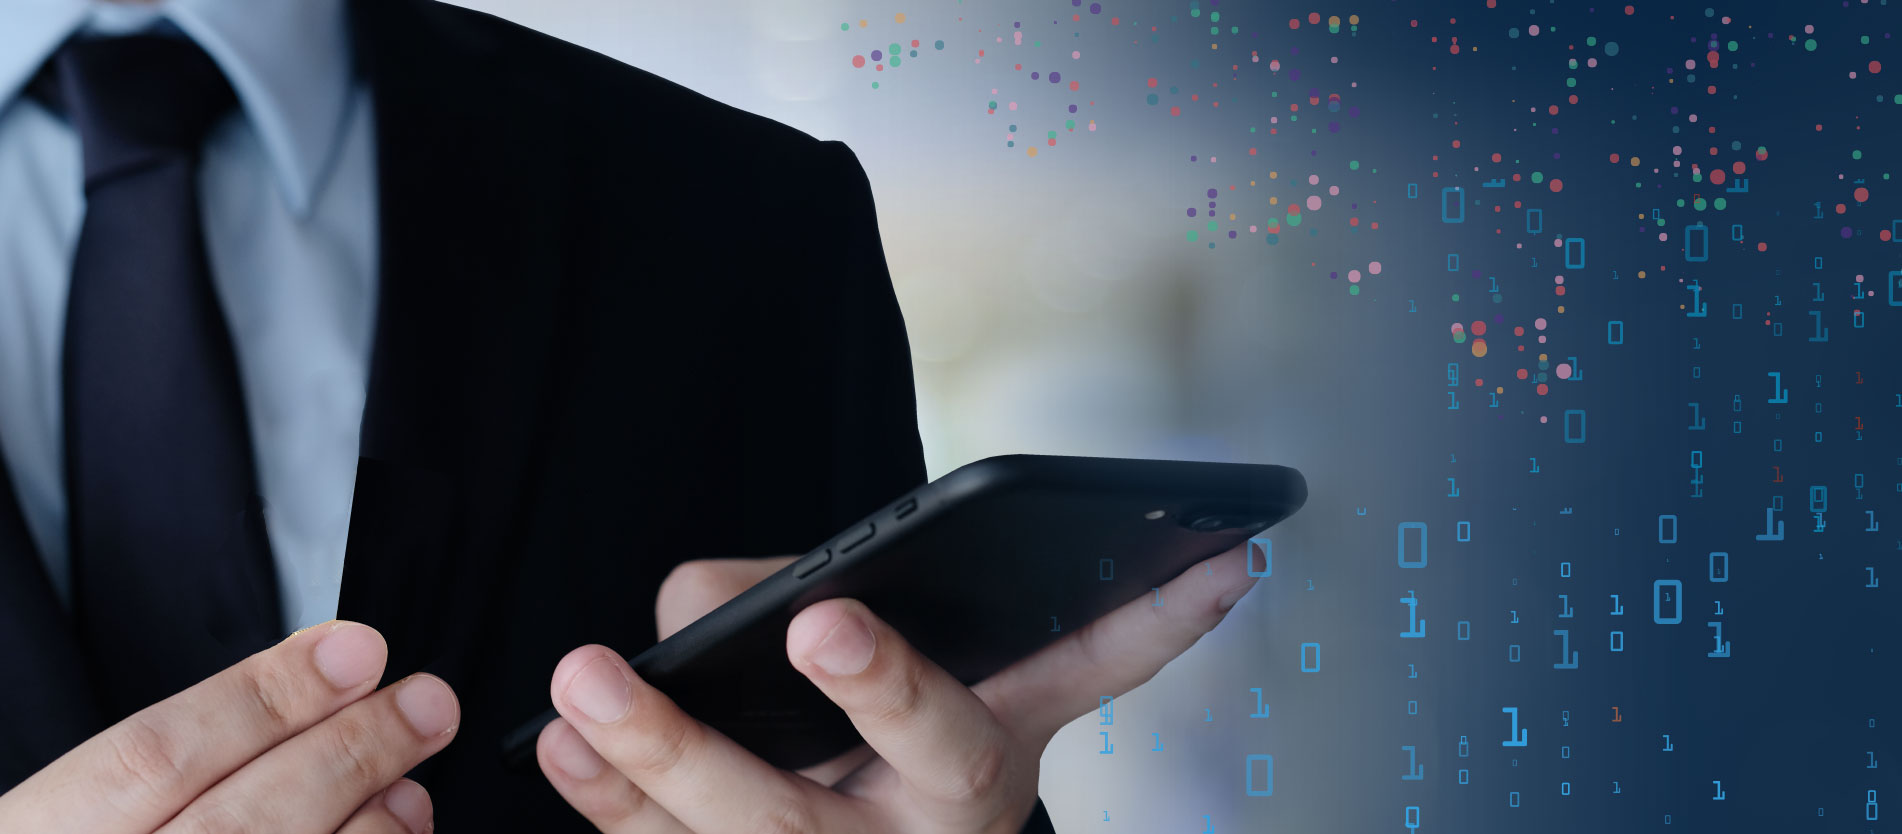
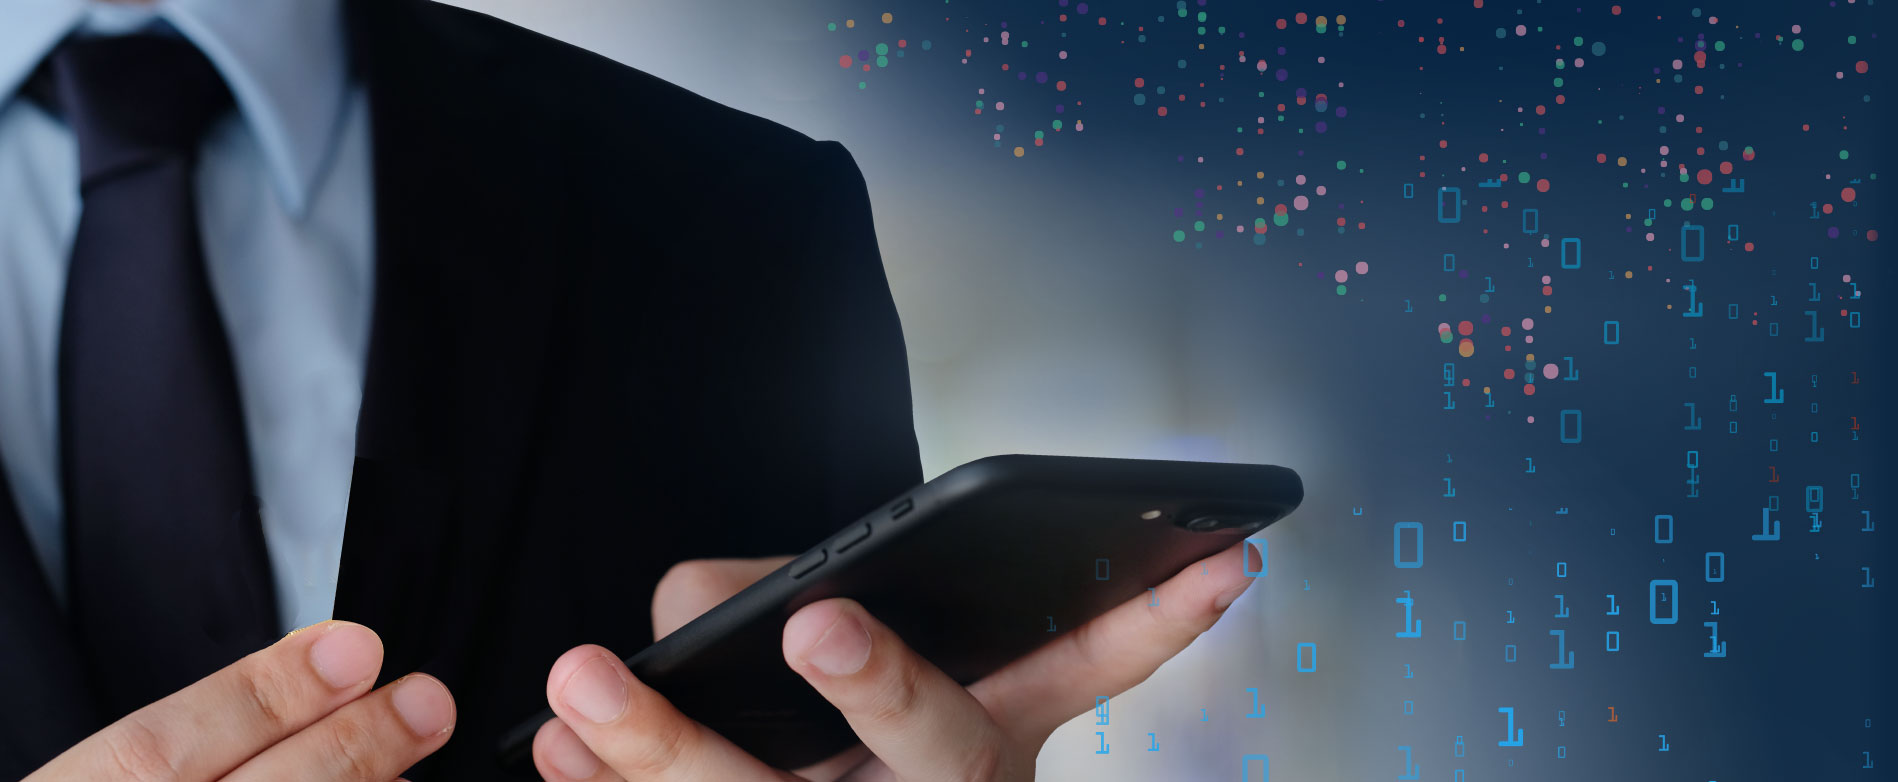
2차수정

diff --git a/TEEware/css/main.css b/TEEware/css/main.css
@@ -1,102 +1,113 @@
 
 
 /* 해더 */
-#header {position:fixed; top:0; left:0; right:0; background:#29293a; z-index:10;}
-#header .inner {width:1240px; margin:0 auto; position: relative; height:100px;}
-#header .logo { position:absolute; top:50%; left:0; transform: translateY(-50%);}
-#header .logo a {background:url('../images/logo.png') 0 0 no-repeat; display:block; width:172px; height:54px;}
+#header {position:fixed; top:0; left:0; right:0; background:transparent; z-index:10; transition:all .5s;}
+#header.active {background:#29293a;}
+#header .inner {position:relative; width:1613px; height:77px; margin:0 auto;}
+#header .logo {position:absolute; top:50%; left:0; transform:translateY(-50%);}
+#header .logo a {display:block; background:url("../images/logo.png") 0 0 no-repeat; width:130px; height:40px; font:0/0 a;}
 
-#header .gnb {position: absolute; top:50%; right:160px; transform: translateY(-50%);}
+#header .gnb {position:absolute; top:50%; right:160px; transform:translateY(-50%);}
 #header .gnb li {float:left; margin-left:56px;}
-#header .gnb li a { font-family:'Roboto', sans-serif; color:#fff; font-size:23px;}
-
-#header .lang {position: absolute; top:50%; right:10px; transform: translateY(-50%);}
-#header .lang a{font-size:20px; color:#94949d; margin-left:20px;}
+#header .gnb li a {color:#fff; font-family:"Roboto", sans-serif; font-size:20px;}
+#header .gnb li:hover {border-bottom:solid 1px #ffffff;}
+#header .lang {position:absolute; top:50%; right:10px; transform:translateY(-50%);}
+#header .lang a {margin-left:20px; color:#94949d; font-size:18px;}
 #header .lang a.active {color:#fff;}
 
 #wrap {min-width:1340px;}
 
-.mainvisual {
-    background:url('../images/main_visual.jpg') 0 0 no-repeat;
-    background-size:cover;
-    height:834px;
-}
-.mainvisual .inner {width:1240px; margin:0 auto; height:100%;}
-.mainvisual h2 {
-    font-size: 45px;
-    color: #fff;
-    font-weight: normal;
-    top:45%;
-    left: 50%;
-    transform: translate(-50%,-50%);
-    position: absolute;
-    line-height: 1.6;
-    width:100%;
-    text-align: center;
-    letter-spacing: -2px;
-}
+.mainvisual {background:url("../images/main_visual.jpg") 0 0 no-repeat; background-size:cover; height:783px; position: relative;}
+.mainvisual .inner {width:1240px; height:100%; margin:0 auto;}
+.mainvisual h2 {position:absolute; top:50%; left:50%; width:100%; color:#fff; line-height:1.4; letter-spacing:-2px; text-align:center; font-size:42px; font-weight:normal; transform:translate(-50%,-50%);}
 #container .inner {width:1240px; margin:0 auto;}
-#container  h3 { font-size:40px; text-align: center; padding:80px 0 55px;}
-#container  p {
-    font-size: 18px;
-    color: #555;
-    letter-spacing: -1px;
-    line-height: 2;
-}
+#container  h3 {padding:80px 0 45px; letter-spacing:-0.5px; text-align:center; font-size:38px;}
 
-#container div.about { padding-bottom:73px;}
+#container  p {padding:0 50px; color:#555; line-height:2; font-size:16px; word-break: keep-all;}
 
-#container div.vision {background:#f5f5f5; padding-bottom:100px;}
-#container div.vision ul {text-align:center; width: 1290px; margin: 0 auto;}
-#container div.vision ul li {float:left; width:370px; word-break:keep-all; letter-spacing: -.5px}
-#container div.vision ul li:nth-child(2) {margin:0px 130px 0 65px; width:360px;}
+#container div.about {padding-bottom:73px;}
+
+#container div.vision {background:#f5f5f5; height:539px;}
+#container div.vision h3 {padding-top:60px;}
+#container div.vision ul {width:1290px; margin:0 auto; text-align:center;}
+#container div.vision ul li {float:left; width:350px; word-break:keep-all;;}
+#container div.vision ul li:nth-child(2) {width:360px; margin:0 130px 0 85px;}
 #container div.vision ul li:last-child {width:340px;}
 #container div.vision ul li div {min-height:147px;}
-#container div.vision ul li p{ font-size:24px; color:#262626; margin:40px 0 25px; line-height:1;}
-#container div.vision ul li span {font-size:18px; color:#545454; line-height: 1.8;}
+#container div.vision ul li p {margin:30px 0 25px; color:#262626; line-height:1; font-size:22px; font-weight:400;}
+#container div.vision ul li span {color:#545454; line-height:1.8; font-size:16px;}
 
-#container div.partners {background: url('../images/bg_partner.jpg') 0 0 no-repeat; background-size:cover; height:530px;}
-#container div.partners h3 {color:#fff; padding-bottom:25px;}
-#container div.partners p {color:#fff; text-align: center; letter-spacing:0;}
-#container div.partners ul {width:1191px; margin:55px auto 0;}
+#container div.partners {background:url("../images/bg_partner.jpg") 0 0 no-repeat; background-size:cover; height:467px;}
+#container div.partners h3 {padding-bottom:25px; color:#fff;}
+#container div.partners p {color:#fff; letter-spacing:0; text-align:center; font-size:18px;}
+#container div.partners ul {width:1191px; margin:40px auto 0;}
 #container div.partners ul li {float:left; margin-left:53px;}
-#container div.partners ul li:first-child{margin-left:0;}
+#container div.partners ul li:first-child {margin-left:0;}
 
-#container div.notice {background: #ececec; padding-bottom:90px;}
-#container div.notice .swiper-wrapper {width:1190px; margin:0 auto;}
-#container div.notice .swiper-slide {position: relative; width:278px; height:298px; background: #fff; padding:25px; box-sizing:border-box; }
+#container div.notice {background:#ececec; padding-bottom:90px;}
+#container div.notice .inner > div {float:left; height:298px; position: relative;}
+#container div.notice .news {width:527px; overflow:hidden;}
+#container div.notice .news .swiper-slide > div {background:url("../images/bg_slide.jpg") 0 0 no-repeat; height:100%;}
+#container div.notice .swiper-slide .contents {position:relative; height:100%; padding:30px 40px 24px; box-sizing:border-box;}
+#container div.notice .swiper-slide .contents .category {color:#1e90ff; font-size:16px;}
+#container div.notice .swiper-slide .contents .date {color:#fff; position:absolute; bottom:30px;left:40px; font-size:12px;}
+#container div.notice .swiper-slide .contents h4 {color:#fff; font-size:20px; padding:25px 0 20px;}
+#container div.notice .swiper-slide .contents p {color:#fff; word-break:keep-all; font-size:15px; padding:0; line-height: 1.4;}
+#container div.notice .swiper-slide .contents a {color:#fff; font-size:14px; position:absolute; right:40px; bottom:30px;}
+#container div.notice .swiper-slide .contents a:after {content:""; display:inline-block; background:url(../images/moreArrow.png) 0 0 no-repeat; width:5px; height:9px; margin-left:5px; vertical-align:middle;}
+#container div.notice .board {width:296px; margin-left:15px; overflow: hidden; background:#fff;}
 
-#container div.notice .swiper-slide .category {background:#1e90ff; color:#fff; padding:5px 8px;}
-#container div.notice .swiper-slide .date {color:#797171; font-size:14px; position: absolute; top:25px; right:15px;}
-#container div.notice .swiper-slide h4 {color:#262626; font-size:20px; padding:25px 0 20px;}
-#container div.notice .swiper-slide p {color:#545454; font-size:16px; line-height: 1.4;}
-#container div.notice .swiper-slide a{ position: absolute; color:#797171; font-size:18px; bottom:25px; right:15px;}
+#container div.notice .news .swiper-button-prev {top:30px; left:inherit; right:78px; background:url("../images/news_arorw.png") 0 0 no-repeat; width:27px; height:26px; margin:0;}
+#container div.notice .news .swiper-button-next {top:30px; right:40px; background:url("../images/news_arorw.png") -33px 0 no-repeat; width:27px; height:26px; margin:0;}
 
-#container div.notice .swiper-slide.main {width:557px; background: url('../images/bg_slide.jpg') 0 0 no-repeat;}
+#container div.notice .board .swiper-slide > div {height:100%;}
+#container div.notice .board .swiper-slide .contents .category {color:#1e90ff; font-size:16px;}
+#container div.notice .board .swiper-slide .contents .date {color:#a6a6a6; position:absolute; bottom:30px;left:40px; font-size:12px;}
+#container div.notice .board .swiper-slide .contents h4 {color:#262626; font-size:20px; padding:30px 0 30px;}
+#container div.notice .board .swiper-slide .contents p {color:#262626; word-break:keep-all; font-size:15px; padding:0; line-height: 1.4;}
+#container div.notice .board .swiper-slide .contents a {color:#777; font-size:14px; position:absolute; right:40px; bottom:30px;}
+#container div.notice .board .swiper-slide .contents a:after {content:""; display:inline-block; background:url(../images/moreArrow2.png) 0 0 no-repeat; width:5px; height:9px; margin-left:5px; vertical-align:middle;}
+
+#container div.notice .board .swiper-button-prev {top:30px; left:inherit; right:78px; background:url("../images/board_arrow.png") 0 0 no-repeat; width:27px; height:26px; margin:0;}
+#container div.notice .board .swiper-button-next {top:30px; right:40px; background:url("../images/board_arrow.png") -33px 0 no-repeat; width:27px; height:26px; margin:0;}
+
+
+/* #container div.notice .swiper-wrapper {width:1190px; margin:0 auto;}
+#container div.notice .swiper-slide {position:relative; background:#fff; width:278px; height:298px; padding:25px; box-sizing:border-box;}
+
+#container div.notice .swiper-slide .category {background:#1e90ff; padding:5px 8px; color:#fff;}
+#container div.notice .swiper-slide .date {position:absolute; top:25px; right:15px; color:#797171; font-size:14px;}
+#container div.notice .swiper-slide h4 {padding:25px 0 20px; color:#262626; font-size:20px;}
+#container div.notice .swiper-slide p {color:#545454; line-height:1.4; font-size:16px;}
+#container div.notice .swiper-slide a {position:absolute; right:15px; bottom:25px; color:#797171; font-size:18px;}
+
+#container div.notice .swiper-slide.main {background:url("../images/bg_slide.jpg") 0 0 no-repeat; width:557px;}
 #container div.notice .swiper-slide.main .date {color:#fff;}
 #container div.notice .swiper-slide.main h4 {color:#fff;}
-#container div.notice .swiper-slide.main p {color:#fff; word-break: keep-all;}
-#container div.notice .swiper-slide.main a{color:#fff;}
+#container div.notice .swiper-slide.main p {color:#fff; word-break:keep-all;}
+#container div.notice .swiper-slide.main a {color:#fff;}
 
-#container div.notice .swiper-button-prev {background: url('../images//btn_prev.png') 0 0 no-repeat; width:36px; height:65px;}
-#container div.notice .swiper-button-next {background: url('../images//btn_next.png') 0 0 no-repeat; width:36px; height:65px;}
+#container div.notice .swiper-button-prev {background:url("../images//btn_prev.png") 0 0 no-repeat; width:36px; height:65px;}
+#container div.notice .swiper-button-next {background:url("../images//btn_next.png") 0 0 no-repeat; width:36px; height:65px;} */
 
 #container div.contact {padding-bottom:50px;}
-#container div.contact h4 {font-size:22px; margin-bottom:20px;}
-#container div.contact ul li {float:left; width:380px; word-break:keep-all; letter-spacing: -.5px; font-size:23px; color:#545454;}
-#container div.contact ul li:nth-child(2) {margin:0 45px;}
+#container div.contact h4 {margin-bottom:20px; font-size:20px;}
+#container div.contact p {padding:0; font-size:16px;}
+#container div.contact ul li {float:left; width:330px; color:#545454; letter-spacing:-0.5px; font-size:23px; word-break:keep-all;}
+#container div.contact ul li:nth-child(2) {margin:0 45px 0 130px;}
 #container div.contact ul li:last-child {width:368px;}
 #container div.contact ul li dl {margin-bottom:35px;}
-#container div.contact ul li dl dt {display:inline-block; width:38px; vertical-align:middle;}
-#container div.contact ul li dl dd {display:inline-block; font-size:18px;}
+#container div.contact ul li dl dt {display:inline-block; width:30px; vertical-align:middle;}
+#container div.contact ul li dl dd {display:inline-block; font-size:16px;}
 
-#container div.contact ul li form {text-align: right;}
-#container div.contact ul li input {width:100%; height:50px; background: #ececec; color:#545454; text-indent: 20px; font-size:18px; margin-bottom:10px; border:0; box-sizing: border-box;}
-#container div.contact ul li textarea { width:100%; box-sizing: border-box; resize: none;  background: #ececec; color:#545454;  padding:20px; border:0; font-size:18px; font-weight: bold;}
-#container div.contact ul li button {width:115px; height:40px; color:#fff; font-size:18px; text-align: center; background: #1e90ff; margin-top:8px;}
+#container div.contact ul li form {text-align:right;}
+#container div.contact ul li input {background:#ececec; width:100%; height:50px; margin-bottom:10px; border:0; box-sizing:border-box; color:#545454; text-indent:20px; font-size:18px;}
+#container div.contact ul li textarea {background:#ececec; width:100%; height:200px; padding:20px; border:0; box-sizing:border-box; color:#545454; font-family:"Noto Sans KR", sans-serif; font-size:18px; resize:none;}
+#container div.contact ul li button {background:#1e90ff; width:106px; height:37px; margin-top:8px; color:#fff; text-align:center; font-size:16px;}
 
-#footer {background: #29293a;}
-#footer .inner {width:1314px; margin:0 auto; position: relative; height:117px;}
-#footer .logo { position:absolute; top:50%; left:-110px; transform: translateY(-50%);}
-#footer .logo a {background:url('../images/logo.png') 0 0 no-repeat; display:block; width:216px; height:68px;}
-#footer p {color:#fff; text-align: right; font-size:16px; line-height: 117px; font-weight: normal;}
+
+#footer {background:#29293a;}
+#footer .inner {position:relative; width:1152px; height:93px; margin:0 auto;}
+#footer .logo {position:absolute; top:50%; left:0; transform:translateY(-50%);}
+#footer .logo a {display:block; background:url("../images/logo.png") 0 0 no-repeat; width:130px; height:40px;}
+#footer p {color:#ccc; line-height:93px; text-align:right; font-size:14px; font-weight:normal;}

diff --git a/TEEware/index.html b/TEEware/index.html
@@ -18,9 +18,19 @@
     <!-- Initialize Swiper -->
     <script>
         $(document).ready(function(){
-            var swiper = new Swiper('.swiper-container', {
-            slidesPerView: 'auto',
-            spaceBetween: 35,
+            var newsSlide = new Swiper('.news', {
+            loop: true,
+            pagination: {
+                el: '.swiper-pagination',
+                clickable: true,
+            },
+            navigation: {
+                nextEl: '.swiper-button-next',
+                prevEl: '.swiper-button-prev',
+            },
+            });
+
+			var boardSlide = new Swiper('.board', {
             loop: true,
             pagination: {
                 el: '.swiper-pagination',
@@ -33,7 +43,23 @@
             });
         })
 
-        
+		function winScroll(){
+			$(window).scroll(function(){
+				var winT = $(window).scrollTop()
+				if(winT > 10){
+					$('#header').addClass('active')
+				} else {
+					$('#header').removeClass('active')
+				}
+			});
+			if(winT > 10){
+				$('#header').addClass('active')
+			} else {
+				$('#header').removeClass('active')
+			}
+		}
+		winScroll();
+
     </script>
 
 
@@ -119,52 +145,99 @@
             </div>
 
             <div class="notice">
-                <div class="inner">
+                <div class="inner clearfix">
                     <h3>Latest Notices</h3>
                     <!-- Swiper -->
-                    <div class="swiper-container">
-                        <div class="swiper-wrapper">
-                            <div class="swiper-slide main">
-                                <span class="category">News</span>
-                                <span class="date">2018-11-11</span>
-                                <h4>주식액면분할에 따른 주권제출공고</h4>
-                                <p>주주께서는 이 공고 게재일로부터 1월 내에 본사에 연락하여 주시기 바랍니다.</p>
-                                <a href="#">more ></a>
-                            </div>
-                            <div class="swiper-slide">
-                                <span class="category">Notice</span>
-                                <span class="date">2018-11-11</span>
-                                <h4>TEEware 에서 CUop 인턴을 모집합니다!</h4>
-                                <p>TEEware와 함께 하실 분을 모집하오니, 관심있으시거나 궁금한 사항이 있으신 분은  하단에 메일주소로 연락주기시 바랍니다.</p>
-                                <a href="#">more ></a>
-                            </div>
-                            <div class="swiper-slide">
-                                <span class="category">Notice</span>
-                                <span class="date">2018-11-11</span>
-                                <h4>언론속의 TEEware </h4>
-                                <p>TEEware와 함께 하실 분을 모집하오니, 관심있으시거나 궁금한 사항이 있으신 분은  하단에 메일주소로 연락주기시 바랍니다.</p>
-                                <a href="#">more ></a>
-                            </div>
-                            <div class="swiper-slide">
-                                <span class="category">Notice</span>
-                                <span class="date">2018-11-11</span>
-                                <h4>TEEware 에서 CUop 인턴을 모집합니다!</h4>
-                                <p>TEEware와 함께 하실 분을 모집하오니, 관심있으시거나 궁금한 사항이 있으신 분은  하단에 메일주소로 연락주기시 바랍니다.</p>
-                                <a href="#">more ></a>
-                            </div>
-                            <div class="swiper-slide">
-                                <span class="category">Notice</span>
-                                <span class="date">2018-11-11</span>
-                                <h4>언론속의 TEEware </h4>
-                                <p>TEEware와 함께 하실 분을 모집하오니, 관심있으시거나 궁금한 사항이 있으신 분은  하단에 메일주소로 연락주기시 바랍니다.</p>
-                                <a href="#">more ></a>
-                            </div>
-                        </div>
-                        <!-- Add Arrows -->
-                        <div class="swiper-button-next"></div>
-                        <div class="swiper-button-prev"></div>
-                    </div>
-                </div>
+					<div class="news">
+						<div class="swiper-wrapper">
+							<div class="swiper-slide">
+								<div>
+									<div class="contents">
+										<span class="category">News</span>
+										<span class="date">2018-11-11</span>
+										<h4>주식액면분할에 따른 주권제출공고</h4>
+										<p>주주께서는 이 공고 게재일로부터 1월 내에 본사에 연락하여 주시기 바랍니다.</p>
+										<a href="#">more</a>
+									</div>
+								</div>
+							</div>
+							<div class="swiper-slide">
+								<div>
+									<div class="contents">
+										<span class="category">News</span>
+										<span class="date">2018-11-11</span>
+										<h4>주식액면분할에 따른 주권제출공고</h4>
+										<p>주주께서는 이 공고 게재일로부터 1월 내에 본사에 연락하여 주시기 바랍니다.</p>
+										<a href="#">more</a>
+									</div>
+								</div>
+							</div>
+						</div>
+						<!-- Add Arrows -->
+						<div class="swiper-button-next"></div>
+						<div class="swiper-button-prev"></div>
+					</div>
+
+					<div class="board">
+						<div class="swiper-wrapper">
+							<div class="swiper-slide main">
+								<div>
+									<div class="contents">
+										<span class="category">News</span>
+										<span class="date">2018-11-11</span>
+										<h4>주식액면분할에 따른 주권제출공고</h4>
+										<p>주주께서는 이 공고 게재일로부터 1월 내에 본사에 연락하여 주시기 바랍니다.</p>
+										<a href="#">more</a>
+									</div>
+								</div>
+							</div>
+							<div class="swiper-slide main">
+								<div>
+									<div class="contents">
+										<span class="category">News</span>
+										<span class="date">2018-11-11</span>
+										<h4>주식액면분할에 따른 주권제출공고</h4>
+										<p>주주께서는 이 공고 게재일로부터 1월 내에 본사에 연락하여 주시기 바랍니다.</p>
+										<a href="#">more</a>
+									</div>
+								</div>
+							</div>
+						</div>
+						<!-- Add Arrows -->
+						<div class="swiper-button-next"></div>
+						<div class="swiper-button-prev"></div>
+					</div>
+
+					<div class="board">
+						<div class="swiper-wrapper">
+							<div class="swiper-slide main">
+								<div>
+									<div class="contents">
+										<span class="category">News</span>
+										<span class="date">2018-11-11</span>
+										<h4>주식액면분할에 따른 주권제출공고</h4>
+										<p>주주께서는 이 공고 게재일로부터 1월 내에 본사에 연락하여 주시기 바랍니다.</p>
+										<a href="#">more</a>
+									</div>
+								</div>
+							</div>
+							<div class="swiper-slide main">
+								<div>
+									<div class="contents">
+										<span class="category">News</span>
+										<span class="date">2018-11-11</span>
+										<h4>주식액면분할에 따른 주권제출공고</h4>
+										<p>주주께서는 이 공고 게재일로부터 1월 내에 본사에 연락하여 주시기 바랍니다.</p>
+										<a href="#">more</a>
+									</div>
+								</div>
+							</div>
+						</div>
+						<!-- Add Arrows -->
+						<div class="swiper-button-next"></div>
+						<div class="swiper-button-prev"></div>
+					</div>
+				</div>
             </div>
 
             <div class="contact">
@@ -212,7 +285,7 @@
             }
             </script>
             <script 
-            src="https://maps.googleapis.com/maps/api/js?key=AIzaSyBiFo1Mw2lF4Jz4_CaC5AlGmna3k1xmB_8&callback=initMap"
+            src="https://maps.googleapis.com/maps/api/js?key=AIzaSyAUgqrKdRc6jneXKpdkitroKCckOT9rrcE&callback=initMap"
             async defer></script>
         </div>
 
